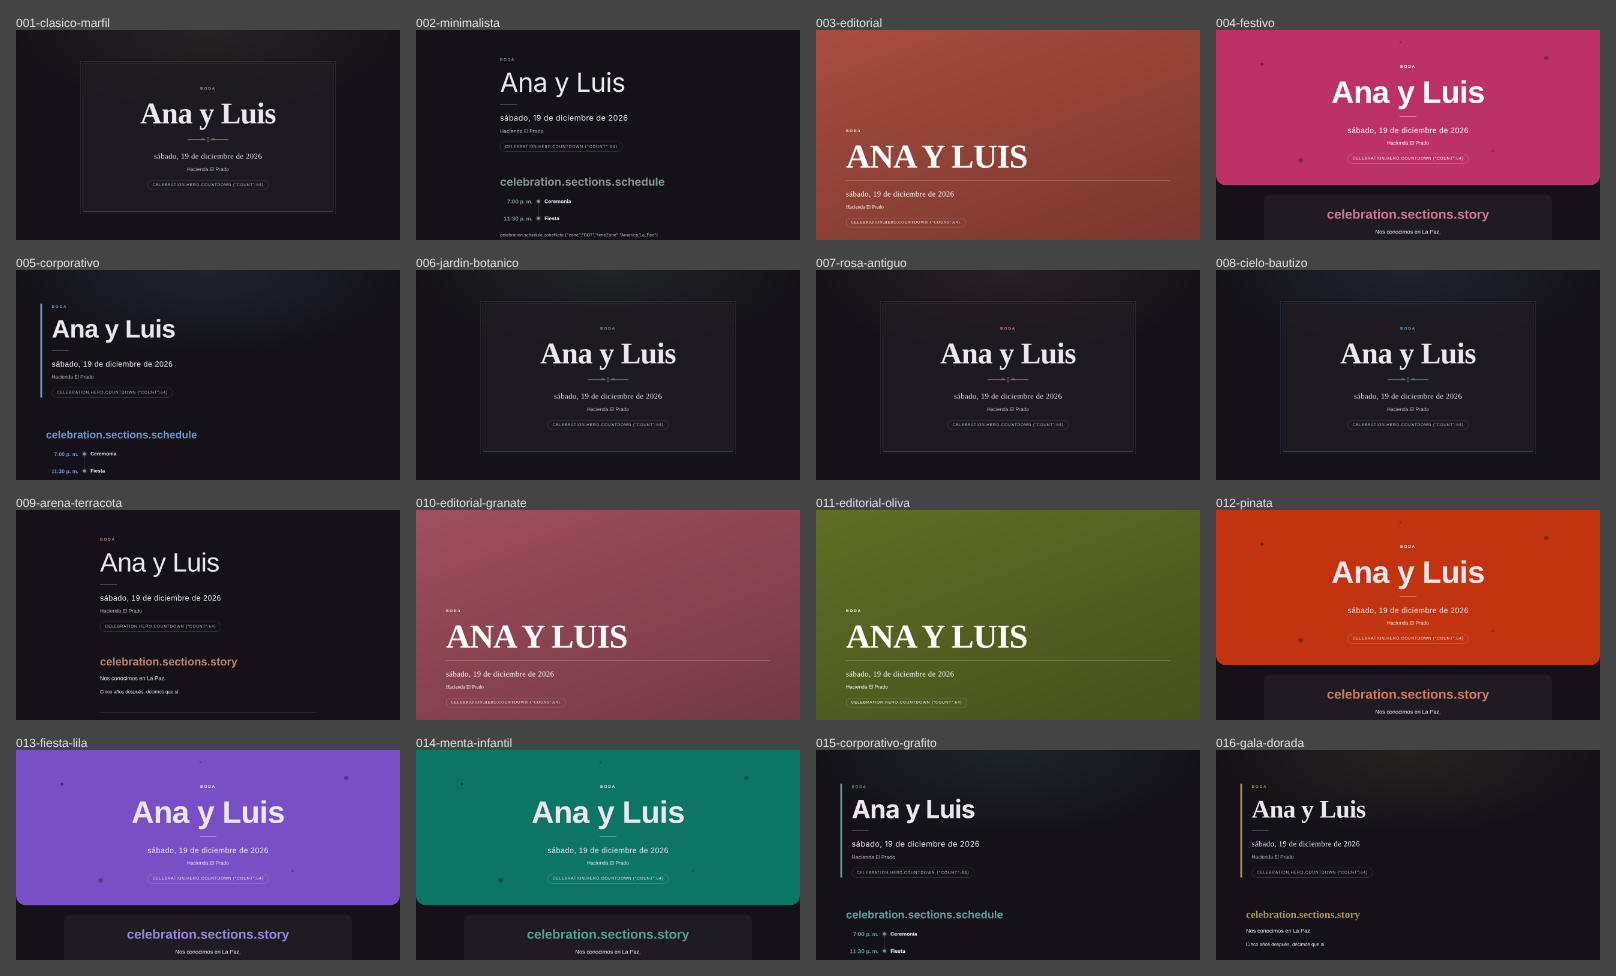
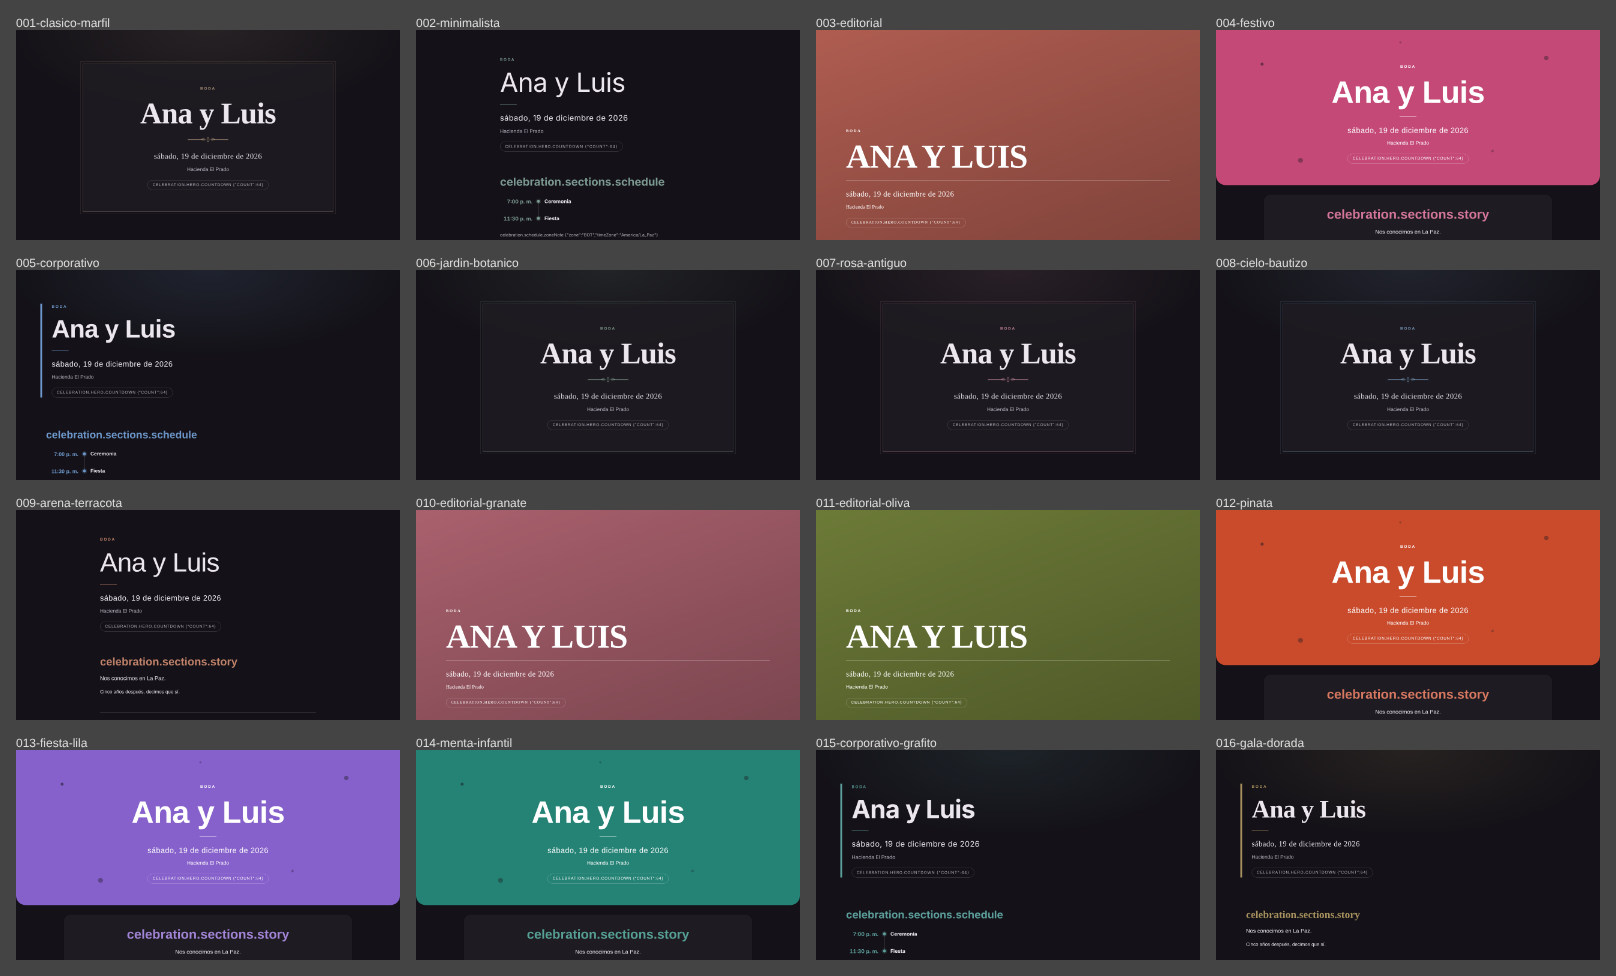
fix(plantillas): relleno oscuro del boton a 3:1 contra el bloque de confirmar y hover sin salto
Corrige: PL-118-M1b (el boton vive sobre surface + 9 % del acento, no sobre el
canvas plano; el relleno se valida contra darkBackdrops), N1 (sin translateY:
hover scale(1.02), pulsar scale(.98) segun DESIGN.md) y N2 (hover solo con
@media (hover: hover)).

Changed region(s): [[0.7426, 0.5225, 0.9901, 0.707], [0.3403, 0.8299, 0.4332, 0.8607], [0.0928, 0.8299, 0.1856, 0.8607]]

diff --git a/packages/celebration-theme/src/index.test.ts b/packages/celebration-theme/src/index.test.ts
@@ -174,11 +174,12 @@ describe("template colours read in both schemes (WCAG AA)", () => {
     expect(hueDistance(dark.accent, palette.accent)).toBeLessThanOrEqual(2);
   });
 
-  it.each(SEEDED_PALETTES)("%s · dark fill reads as a shape (3:1) on canvas and surface, keeps the hue, and its ink and the white cover text read", (_key, palette) => {
+  it.each(SEEDED_PALETTES)("%s · dark fill reads as a shape (3:1) on canvas, surface and the accent washes (RSVP block, cover), keeps the hue, and its ink and the white cover text read", (_key, palette) => {
     const dark = paletteFor(themeOf(palette), "dark");
     const { fill, ink } = accentFill(themeOf(palette), "dark");
     expect(contrastRatio(fill, dark.canvas)).toBeGreaterThanOrEqual(COMPONENT_CONTRAST);
     expect(contrastRatio(fill, dark.surface)).toBeGreaterThanOrEqual(COMPONENT_CONTRAST);
+    for (const background of darkBackdrops(dark.accent)) expect(contrastRatio(fill, background)).toBeGreaterThanOrEqual(COMPONENT_CONTRAST);
     expect(contrastRatio(ink, fill)).toBeGreaterThanOrEqual(TEXT_CONTRAST);
     expect(contrastRatio("#FFFFFF", fill)).toBeGreaterThanOrEqual(TEXT_CONTRAST);
     expect(hueDistance(fill, palette.accent)).toBeLessThanOrEqual(2);
@@ -247,7 +248,9 @@ describe("styles.css and native styles keep the contract the theme assumes", () 
     expect(css).toMatch(new RegExp(String.raw`data-section="rsvp"\][^}]*color-mix\(in srgb, var\(--celebration-accent\) ${RSVP_WASH * 100}%, var\(--celebration-surface\)\)`));
   });
 
-  it("the reply button has hover and press states that move only transform, and only when motion is allowed", () => {
-    expect(css).toMatch(/prefers-reduced-motion: no-preference\) \{[^@]*\.celebration-cta:hover \{ transform:[^}]+\}[^@]*\.celebration-cta:active \{ transform: scale\(\.98\); \}/);
+  it("the reply button presses with scale(.98) (DESIGN.md) and hovers only where hover exists, both only when motion is allowed", () => {
+    expect(css).toMatch(/prefers-reduced-motion: no-preference\) \{[^@]*\.celebration-cta:active \{ transform: scale\(\.98\); \}/);
+    expect(css).toMatch(/@media \(hover: hover\) and \(prefers-reduced-motion: no-preference\) \{\s*\.celebration-cta:hover \{ transform: scale\(1\.02\); \}/);
+    expect(css).not.toContain("translateY(-1px)");
   });
 });

diff --git a/packages/celebration-theme/src/theme.ts b/packages/celebration-theme/src/theme.ts
@@ -161,16 +161,17 @@ export function inkOnAccent(palette: Pick<Palette, "surface" | "canvas" | "text"
 
 /**
  * The accent as a fill (cover band, festive banner, reply button) and the ink set on it. In light the fill is the
- * template's own accent. In dark it is the same hue lightened just enough that the fill reads as a shape against both
- * dark backgrounds (3:1, WCAG 1.4.11), the ink on it reaches AA, and so does the white the editorial cover sets on
+ * template's own accent. In dark it is the same hue lightened just enough that the fill reads as a shape against the dark
+ * canvas, the surface and the accent washes the button can sit on (3:1, WCAG 1.4.11), the ink on it reaches AA, and so does the white the editorial cover sets on
  * it when it has no photo.
  */
 export function accentFill(theme: CelebrationTheme, scheme: ColorScheme): { readonly fill: string; readonly ink: string } {
   const palette = paletteFor(theme, scheme);
   const inkOn = (fill: string) => inkOnAccent({ ...palette, accent: fill });
   if (scheme === "light") return { fill: theme.palette.accent, ink: inkOn(theme.palette.accent) };
-  const fill = lightenUntil(theme.palette.accent, (candidate) => contrastRatio(candidate, DARK_CANVAS) >= COMPONENT_CONTRAST
-    && contrastRatio(candidate, DARK_SURFACE) >= COMPONENT_CONTRAST
+  // The button lives in the RSVP block (surface + 9 % of the accent text colour) and could sit on the cover wash: every backdrop the accent text is checked against.
+  const backdrops = darkBackdrops(palette.accent);
+  const fill = lightenUntil(theme.palette.accent, (candidate) => backdrops.every((background) => contrastRatio(candidate, background) >= COMPONENT_CONTRAST)
     && contrastRatio(inkOn(candidate), candidate) >= TEXT_CONTRAST
     && contrastRatio(WHITE, candidate) >= TEXT_CONTRAST) ?? palette.accent;
   return { fill, ink: inkOn(fill) };

diff --git a/packages/celebration-theme/styles.css b/packages/celebration-theme/styles.css
@@ -111,8 +111,10 @@
 /* DESIGN.md · Movimiento: solo transform y opacidad; scale(.98) al pulsar. Sin movimiento si el sistema lo reduce. */
 @media (prefers-reduced-motion: no-preference) {
   .celebration-cta { transition: transform 120ms cubic-bezier(0.16, 1, 0.3, 1); }
-  .celebration-cta:hover { transform: translateY(-1px); }
   .celebration-cta:active { transform: scale(.98); }
+}
+@media (hover: hover) and (prefers-reduced-motion: no-preference) {
+  .celebration-cta:hover { transform: scale(1.02); }
 }
 .celebration-cta { padding: .8rem 2rem; font-size: 1.05rem; border-radius: var(--celebration-radius); background: var(--celebration-accent-fill); color: var(--celebration-on-accent) !important; text-decoration: none; }
 .celebration-gallery { list-style: none; padding: 0; margin: 0; display: grid; gap: .75rem; grid-template-columns: repeat(auto-fill, minmax(min(100%, 14rem), 1fr)); }

diff --git a/docs/progress/STATUS_LOG.md b/docs/progress/STATUS_LOG.md
@@ -2,7 +2,7 @@
 
 | Fecha | Carril / fase | Estado | Evidencia |
 |---|---|---|---|
-| 2026-11-24 | **Plantillas fase 0 · contraste AA del acento en oscuro y piso de 13 px (PL-B1, PL-B2, PL-M5)** | `TESTED` en Linux/Chromium (pruebas, tipos, lint, build y comparación antes/después contra los servidores simulados del repositorio), **no `VERIFIED`**: faltan las líneas base de macOS (a regenerar en el Mac de Pablo y revisar a ojo) y el recorrido contra el backend real. Ronda 2: relleno oscuro a 3:1, acento contra el lavado, pruebas del piso de 13 px, gitleaks y axe en Linux. Cambian las mismas 9 capturas, ver el PR. | [evidencia](evidence/plantillas-fase0/README.md) |
+| 2026-11-24 | **Plantillas fase 0 · contraste AA del acento en oscuro y piso de 13 px (PL-B1, PL-B2, PL-M5)** | `TESTED` en Linux/Chromium (pruebas, tipos, lint, build y comparación antes/después contra los servidores simulados del repositorio), **no `VERIFIED`**: faltan las líneas base de macOS (a regenerar en el Mac de Pablo y revisar a ojo) y el recorrido contra el backend real. Rondas 2 y 3: relleno oscuro a 3:1 contra todos los fondos reales (incluido el bloque de confirmar), acento contra el lavado, pruebas del piso de 13 px, gitleaks y axe en Linux. Cambian las mismas 9 capturas, ver el PR. | [evidencia](evidence/plantillas-fase0/README.md) |
 | 2026-11-20 | **Espejo web en la app · nativo iOS y Android (frente D)** | `VERIFIED` en simulador iOS 26.5 y emulador Android (Expo Go SDK 54, Maestro, backend de dev) para invitación y sección, directorio → micrositio → catálogo → ficha y «Cómo llegar»; y regalos (lista con token, sin token, ficha). **Corrige dos bugs nativos:** la app no arrancaba en iOS ni en Android (`motion.native.ts` se importaba a sí mismo; también `logo`/`notice-mark`), con una guarda para todo el monorepo; y la foto de portada salía angosta (Yoga + `maxHeight`). `BLOCKED-EXTERNAL`: `/r/{listingId}` en `dev.done` da 404 (ese dominio sirve la app, no seo-web). No probado: universal links, build propio `rsvp://`, dispositivos físicos, lector de pantalla. `turbo` 66/66. | [espejo-web-movil · Nativo](evidence/espejo-web-movil/README.md) |
 | 2026-11-20 | **App · enlaces a proveedores por el redirector del sitio público** | `VERIFIED` en Expo web (Chrome real) contra dev con dos dominios (`RSVP_ORIGIN`=dev.done, `SITE_URL`=rsvp-web): los contactos del micrositio piden `https://rsvp-web…/r/{id}?…&surface=APP` y reciben 302 (2/2); antes iban a dev.done, que responde «Esta página no existe». `site-origins.test.ts` falla con el código anterior (2/3) y pasa con el nuevo. **No** observado en vivo: regalo de aliado (ninguno en dev) ni panel de proveedores del anfitrión (con sesión); mismo `partnerRedirectUrl`. | [espejo-web-movil](evidence/espejo-web-movil/README.md#enlaces-a-proveedores-origen-del-redirector) |
 | 2026-11-21 | **App nativa: idioma del dispositivo** | `VERIFIED` en simulador iOS 26.5 y emulador Android con Expo Go: con iPhone en `es-BO` el código anterior abría en inglés (Intl = idioma del bundle; Expo Go solo declara inglés) y la corrección (`expo-localization` `getLocales()`) abre en español; Android no estaba afectado y sigue en español. Pruebas 8 nuevas (5 fallan con el código anterior), suite 428. Declara `es`/`en` para builds propios (solo introspección, sin build EAS). | [nativo · idioma](evidence/espejo-web-movil/README.md#nativo--el-idioma-del-dispositivo-ios-y-android) |

diff --git a/docs/progress/evidence/plantillas-fase0/README.md b/docs/progress/evidence/plantillas-fase0/README.md
@@ -28,6 +28,11 @@ El cambio visible hoy es el piso de 13 px del antetítulo y de la cuenta atrás 
 ## Ronda 2 (correcciones de la revisión del PR #118)
 
 - `paletas/oscuro-{movil,escritorio}-{antes,despues}.png` se regeneraron con el mismo guion para ambos lados (antes = base `chore/deploy-contabo-coolify`, despues = esta rama), a escala reducida (`movil` 390 px a 50 %, `escritorio` 1280 px a 30 %). Los de claro no cambian en esta ronda y conservan la escala anterior.
-- Cambio visible nuevo en oscuro: el relleno de la franja y del botón se aclara hasta 3:1 contra el canvas y el surface (mismo matiz, Δ <= 2°), y el acento de texto ya se valida contra el lavado de la portada (13 %) y el bloque de confirmar (9 %).
+- Cambio visible nuevo en oscuro: el relleno de la franja y del botón se aclara hasta 3:1 contra el canvas, el surface y los cuatro fondos con lavado del acento (13 % y 9 %, incluido el bloque de confirmar donde vive el botón), con el mismo matiz (Δ <= 2°); mínimo medido 3,01 y blanco/relleno >= 4,52, y el acento de texto ya se valida contra el lavado de la portada (13 %) y el bloque de confirmar (9 %).
 - axe-core 4.10.3 sobre las 16 plantillas (es-BO y en-US, claro y oscuro, 360 y 1280 px): 0 critical y 0 serious. Quedan `region` (moderate: el HTML de prueba no trae los puntos de referencia de la página real) y `color-contrast` como «incompleto» (axe no puede calcular fondos con degradado); por eso el contraste contra el lavado se calcula en `darkBackdrops` y se prueba.
 - Desbordamiento horizontal a 360 px en el HTML de prueba (`SECTION` de 384 px): idéntico con el CSS de la base (386 px de ancho de documento antes y después), no es de F0; se deja anotado para F4.
+
+## Ronda 3
+
+- PL-118-M1b: el relleno del botón se valida contra `darkBackdrops` (canvas, surface y sus mezclas con el acento al 13 % y 9 %). Cupieron a la vez 3:1 y blanco >= 4,5 en las 16 plantillas, por lo que no hizo falta borde.
+- Hover del botón: `scale(1.02)` solo con `@media (hover: hover)` y movimiento permitido; `:active` `scale(.98)` (DESIGN.md). Sin `translateY`, sin salto al pasar de hover a pulsar. `paletas/oscuro-*-despues.png` regeneradas.
